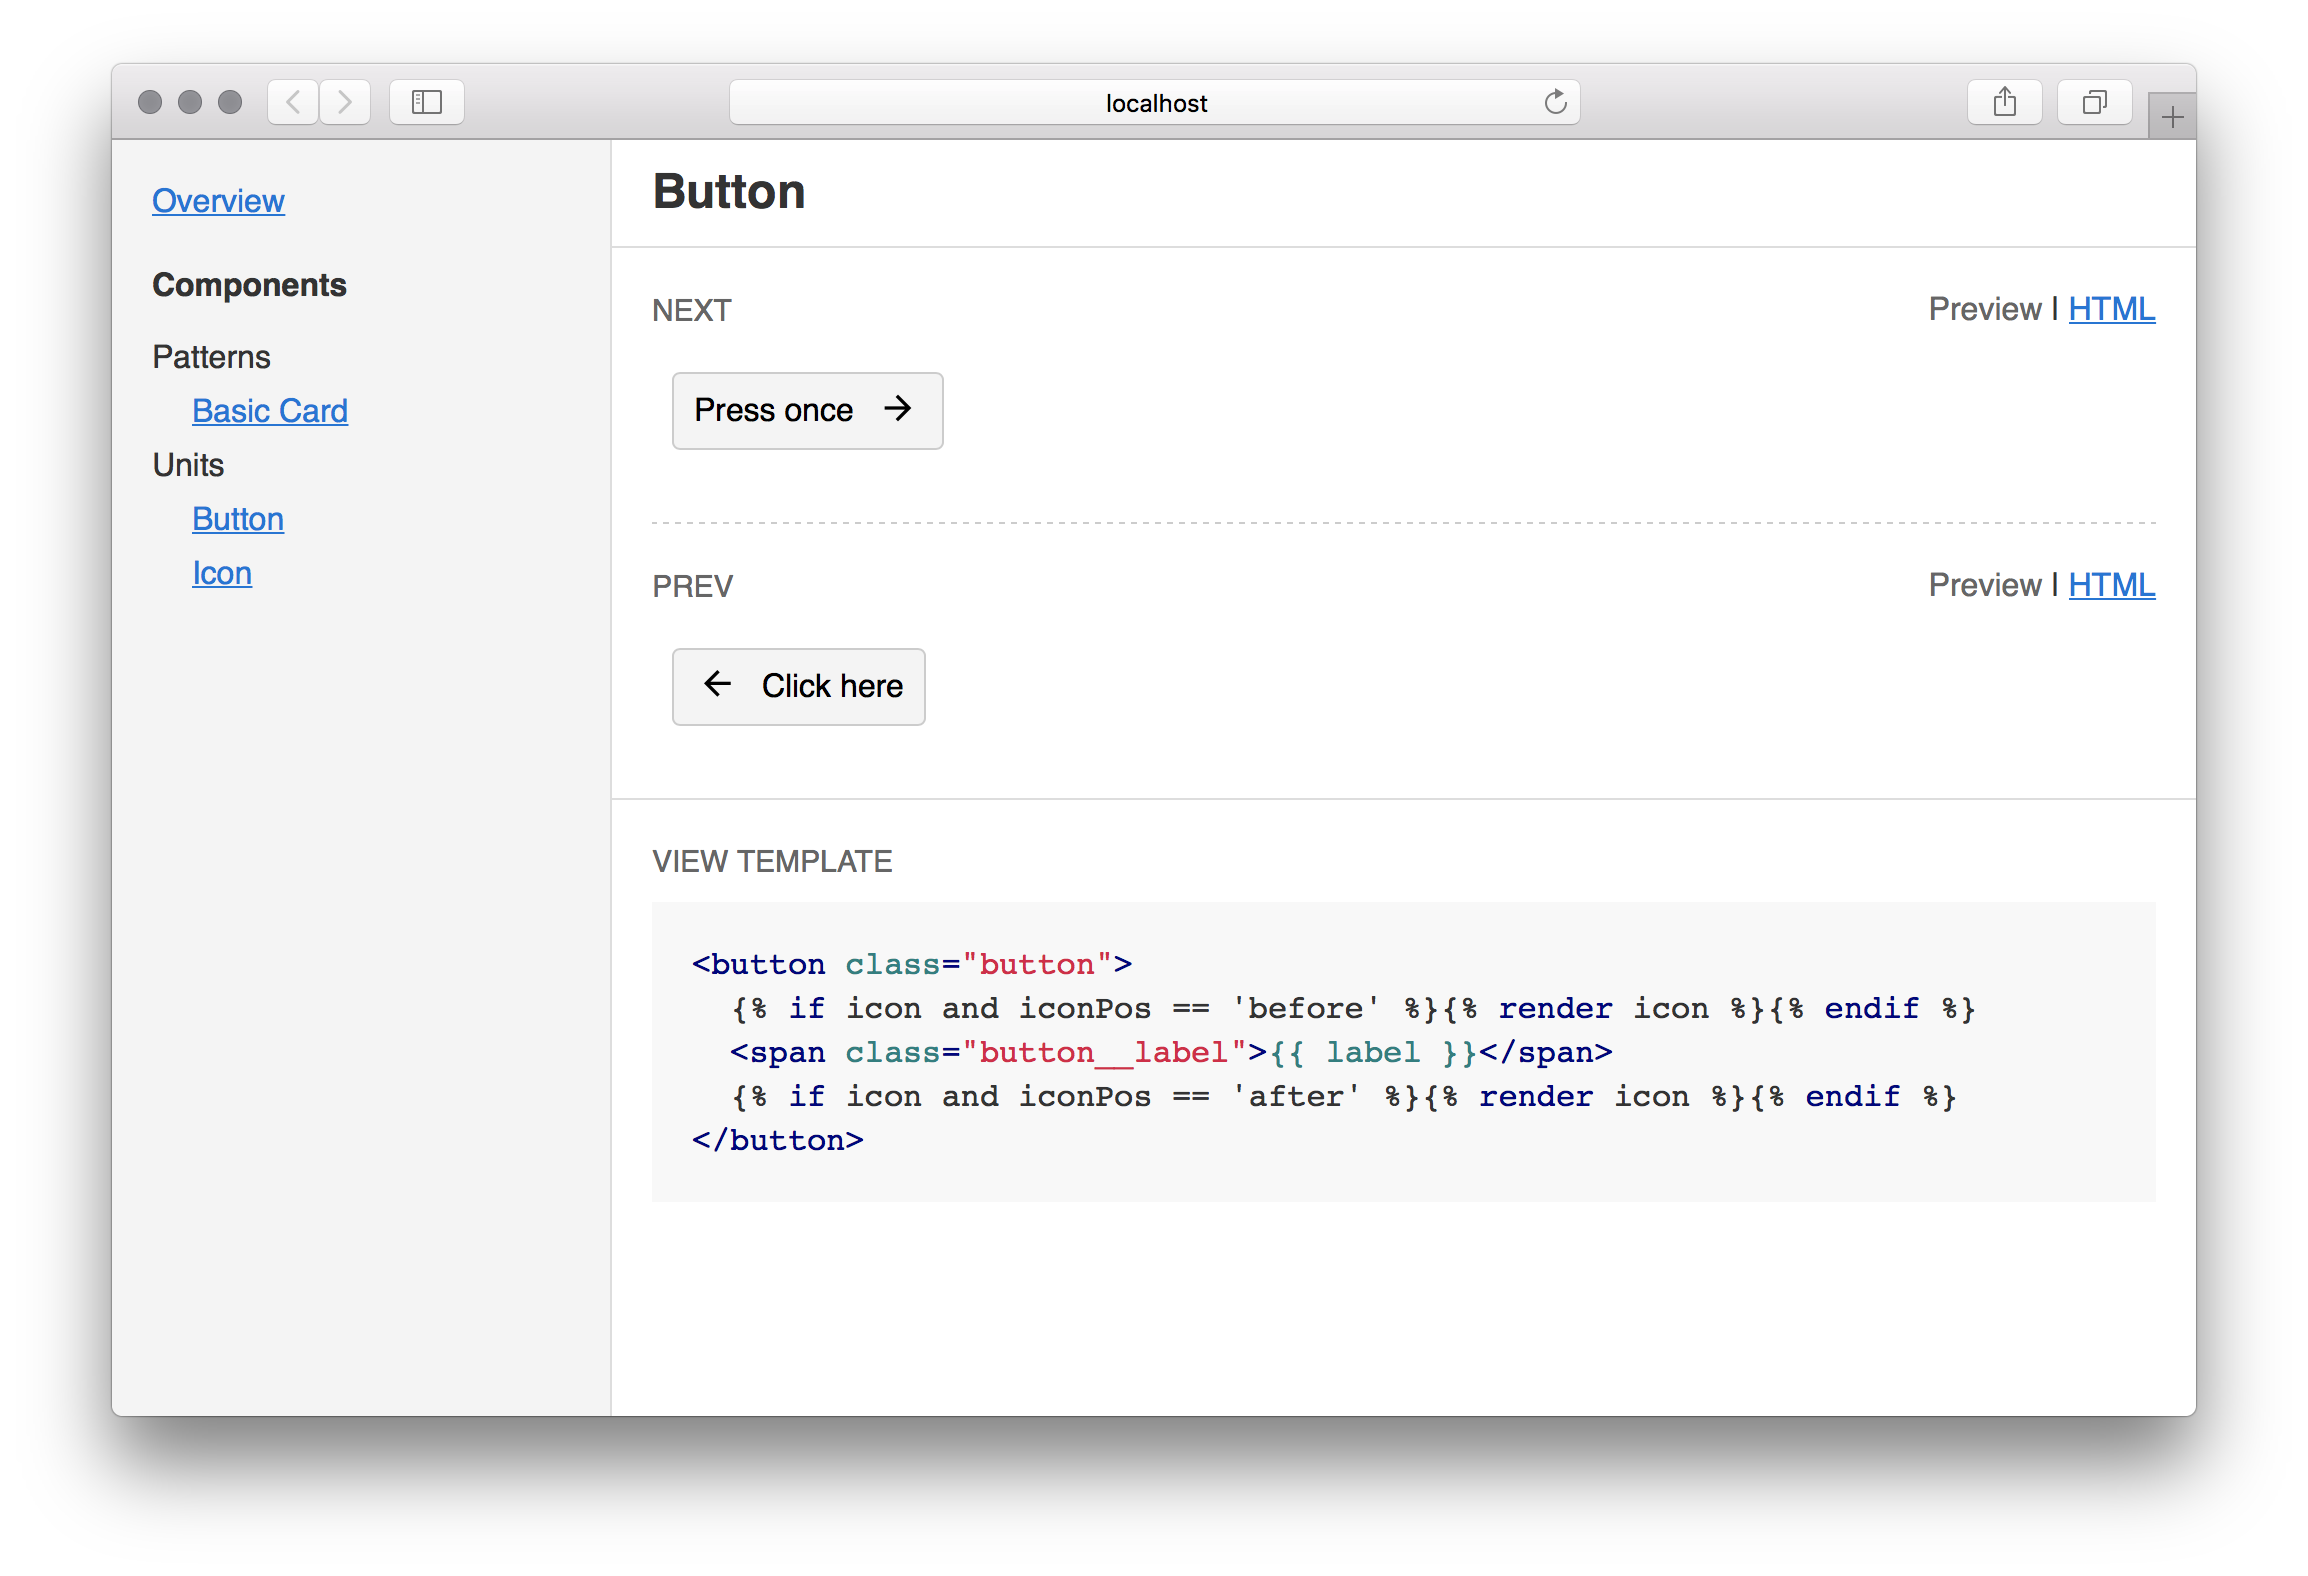
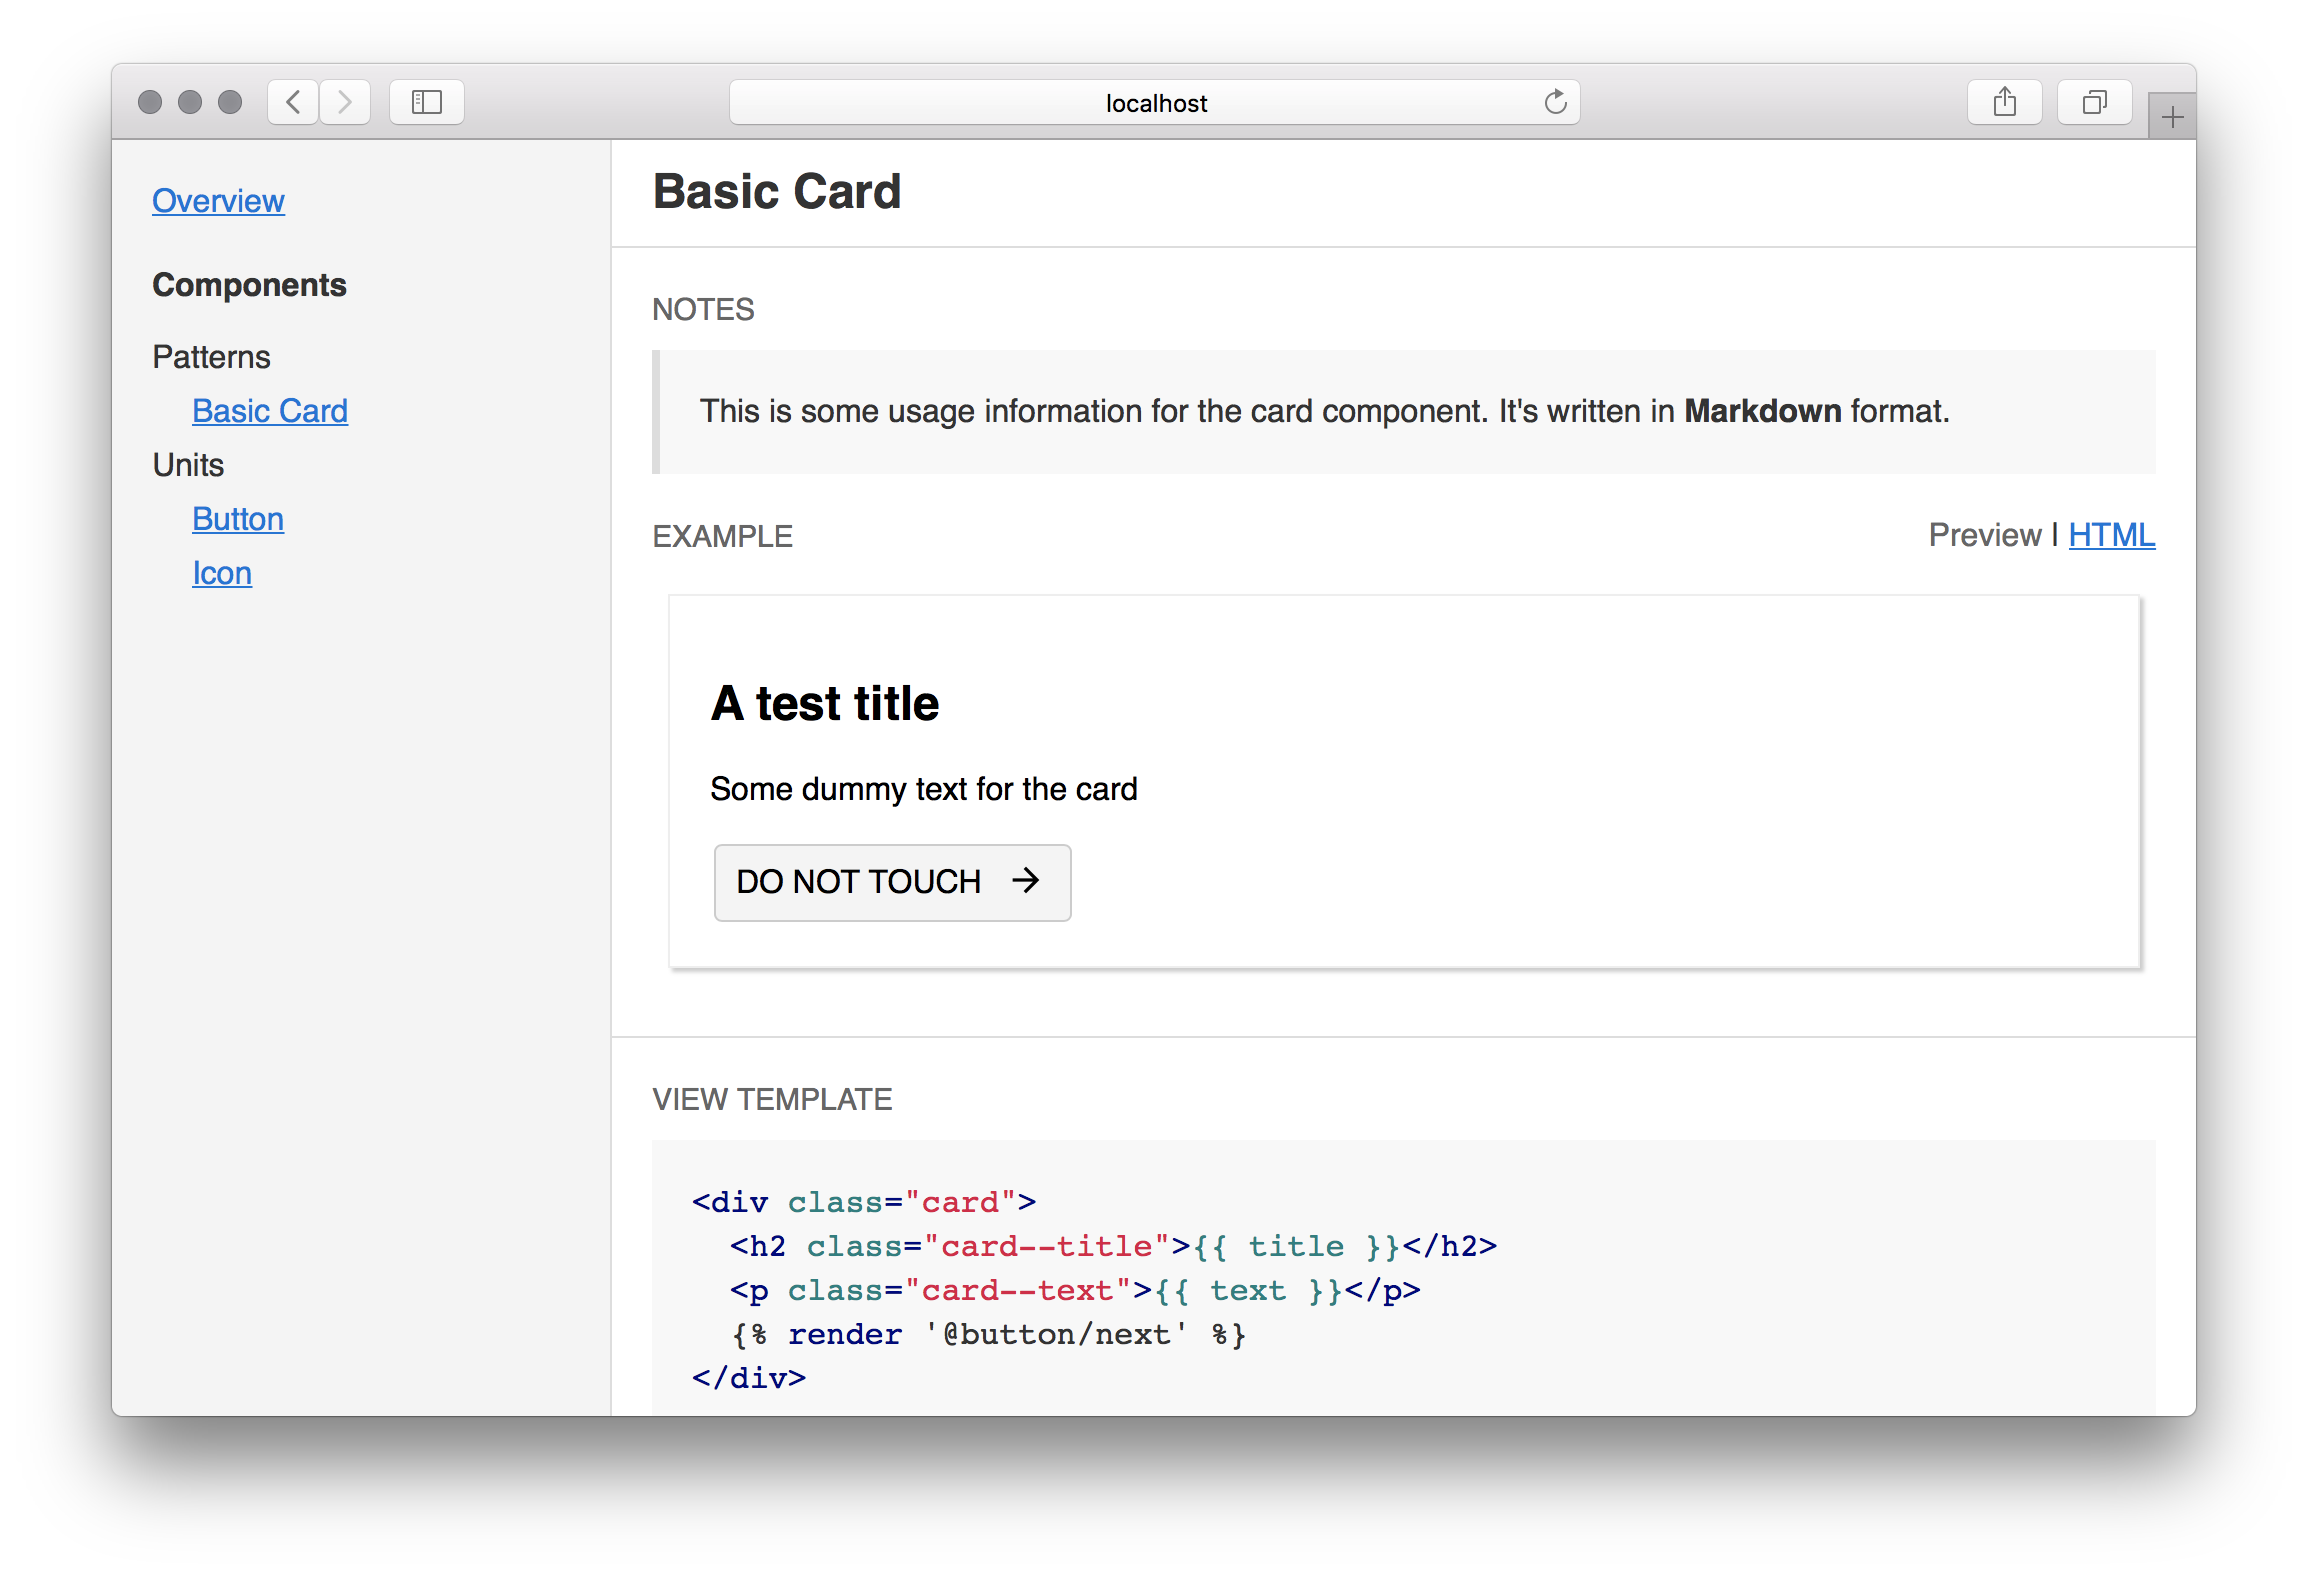
Add notes plugin

diff --git a/packages/themes/styleguide/dist/styleguide.css b/packages/themes/styleguide/dist/styleguide.css
@@ -1,1 +1,1 @@
-.hljs{display:block;overflow-x:auto;padding:.5em;color:#333;background:#f8f8f8}.hljs-comment,.hljs-quote{color:#998;font-style:italic}.hljs-keyword,.hljs-selector-tag,.hljs-subst{color:#333;font-weight:700}.hljs-literal,.hljs-number,.hljs-tag .hljs-attr,.hljs-template-variable,.hljs-variable{color:teal}.hljs-doctag,.hljs-string{color:#d14}.hljs-section,.hljs-selector-id,.hljs-title{color:#900;font-weight:700}.hljs-subst{font-weight:400}.hljs-class .hljs-title,.hljs-type{color:#458;font-weight:700}.hljs-attribute,.hljs-name,.hljs-tag{color:navy;font-weight:400}.hljs-link,.hljs-regexp{color:#009926}.hljs-bullet,.hljs-symbol{color:#990073}.hljs-built_in,.hljs-builtin-name{color:#0086b3}.hljs-meta{color:#999;font-weight:700}.hljs-deletion{background:#fdd}.hljs-addition{background:#dfd}.hljs-emphasis{font-style:italic}.hljs-strong{font-weight:700}*{box-sizing:border-box;padding:0;margin:0}html{font-family:sans-serif;width:100vw;height:100vh;color:#333}body{height:100%;width:100%;position:relative;line-height:1.4}a{color:#0074d9}.note{font-style:italic;color:#999}.container{display:flex;height:100%;width:100%}.nav{flex:0 0 250px;padding:20px;background:#f4f4f4;border-right:1px solid #ddd}.nav__section+.nav__section{margin-top:20px}.nav__label{margin-bottom:14px}.content{flex:1 1 auto;overflow:auto}.page{padding:20px}.page__title{margin-bottom:20px}.page p{margin-bottom:1em}.tree{list-style:none}.tree__item{margin:5px 0}.tree .tree{margin-left:20px}.component__header{padding:10px 20px}.component__label{font-size:24px}.component__heading{font-size:15px;margin-bottom:10px;font-weight:400;text-transform:uppercase;color:#666}.component__heading em{text-transform:none;font-style:normal;opacity:.7}.component__section{padding:20px;border-top:1px solid #ddd}.variant__header{display:flex;justify-content:center;align-items:center;margin-bottom:10px}.variant__label{font-size:15px;font-weight:400;text-transform:uppercase;color:#666}.variant__toggles{margin-left:auto}.variant__toggle.is-active{color:#666;text-decoration:none}.variant__panel{display:none}.variant+.variant{margin-top:20px;padding-top:20px;border-top:1px dashed #ccc}.preview{width:100%;height:0;border:0}.code{font-size:16px}.code .hljs{padding:20px}
+.hljs{display:block;overflow-x:auto;padding:.5em;color:#333;background:#f8f8f8}.hljs-comment,.hljs-quote{color:#998;font-style:italic}.hljs-keyword,.hljs-selector-tag,.hljs-subst{color:#333;font-weight:700}.hljs-literal,.hljs-number,.hljs-tag .hljs-attr,.hljs-template-variable,.hljs-variable{color:teal}.hljs-doctag,.hljs-string{color:#d14}.hljs-section,.hljs-selector-id,.hljs-title{color:#900;font-weight:700}.hljs-subst{font-weight:400}.hljs-class .hljs-title,.hljs-type{color:#458;font-weight:700}.hljs-attribute,.hljs-name,.hljs-tag{color:navy;font-weight:400}.hljs-link,.hljs-regexp{color:#009926}.hljs-bullet,.hljs-symbol{color:#990073}.hljs-built_in,.hljs-builtin-name{color:#0086b3}.hljs-meta{color:#999;font-weight:700}.hljs-deletion{background:#fdd}.hljs-addition{background:#dfd}.hljs-emphasis{font-style:italic}.hljs-strong{font-weight:700}*{box-sizing:border-box;padding:0;margin:0}html{font-family:sans-serif;width:100vw;height:100vh;color:#333}body{height:100%;width:100%;position:relative;line-height:1.4}a{color:#0074d9}.note{font-style:italic;color:#999}.container{display:flex;height:100%;width:100%}.nav{flex:0 0 250px;padding:20px;background:#f4f4f4;border-right:1px solid #ddd}.nav__section+.nav__section{margin-top:20px}.nav__label{margin-bottom:14px}.content{flex:1 1 auto;overflow:auto}.page{padding:20px}.page__title{margin-bottom:20px}.page p{margin-bottom:1em}.tree{list-style:none}.tree__item{margin:5px 0}.tree .tree{margin-left:20px}.component__header{padding:10px 20px}.component__label{font-size:24px}.component__heading{font-size:15px;margin-bottom:10px;font-weight:400;text-transform:uppercase;color:#666}.component__heading em{text-transform:none;font-style:normal;opacity:.7}.component__section{padding:20px;border-top:1px solid #ddd}.component__section--notes+.component__section{border-top:0;padding-top:0}.notes{color:#333;padding:20px;background:#f8f8f8;border-left:4px solid #ddd}.notes h1{display:none}.notes p{margin-bottom:1em;max-width:50rem}.notes :last-child{margin-bottom:0}.variant__header{display:flex;justify-content:center;align-items:center;margin-bottom:10px}.variant__label{font-size:15px;font-weight:400;text-transform:uppercase;color:#666}.variant__toggles{margin-left:auto}.variant__toggle.is-active{color:#666;text-decoration:none}.variant__panel{display:none}.variant+.variant{margin-top:20px;padding-top:20px;border-top:1px dashed #ccc}.preview{width:100%;height:0;border:0}.code{font-size:16px}.code .hljs{padding:20px}

diff --git a/packages/core/src/plugins/notes.js b/packages/core/src/plugins/notes.js
@@ -1,0 +1,15 @@
+const { readFile } = require('fs-extra');
+
+module.exports = function notes() {
+  return function(components) {
+    return Promise.all(
+      components.map(async component => {
+        const readme = component.files.find(file => file.basename.toLowerCase() === 'readme.md');
+        if (readme) {
+          component.notes = await readFile(readme.path, 'utf-8');
+        }
+        return component;
+      })
+    );
+  };
+};

diff --git a/packages/themes/styleguide/src/assets/theme.scss b/packages/themes/styleguide/src/assets/theme.scss
@@ -103,6 +103,28 @@ a {
     padding: 20px;
     border-top: 1px solid #ddd;
   }
+
+  &__section--notes + &__section {
+    border-top: 0;
+    padding-top: 0;
+  }
+}
+
+.notes {
+  color: #333;
+  padding: 20px;
+  background: #f8f8f8;
+  border-left: 4px solid #ddd;
+  h1 {
+    display: none;
+  }
+  p {
+    margin-bottom: 1em;
+    max-width: 50rem;
+  }
+  :last-child {
+    margin-bottom: 0;
+  }
 }
 
 .variant {

diff --git a/packages/core/defaults.js b/packages/core/defaults.js
@@ -10,6 +10,7 @@ module.exports = {
     require('./src/plugins/name'),
     require('./src/plugins/label'),
     require('./src/plugins/view'),
+    require('./src/plugins/notes'),
     require('./src/plugins/variants')
   ],
   engine: '@fractalite/engine-nunjucks',

diff --git a/demo/src/components/patterns/@card/README.md b/demo/src/components/patterns/@card/README.md
@@ -1,0 +1,3 @@
+# Card component
+
+This is some usage information for the card component. It's written in **Markdown** format.
